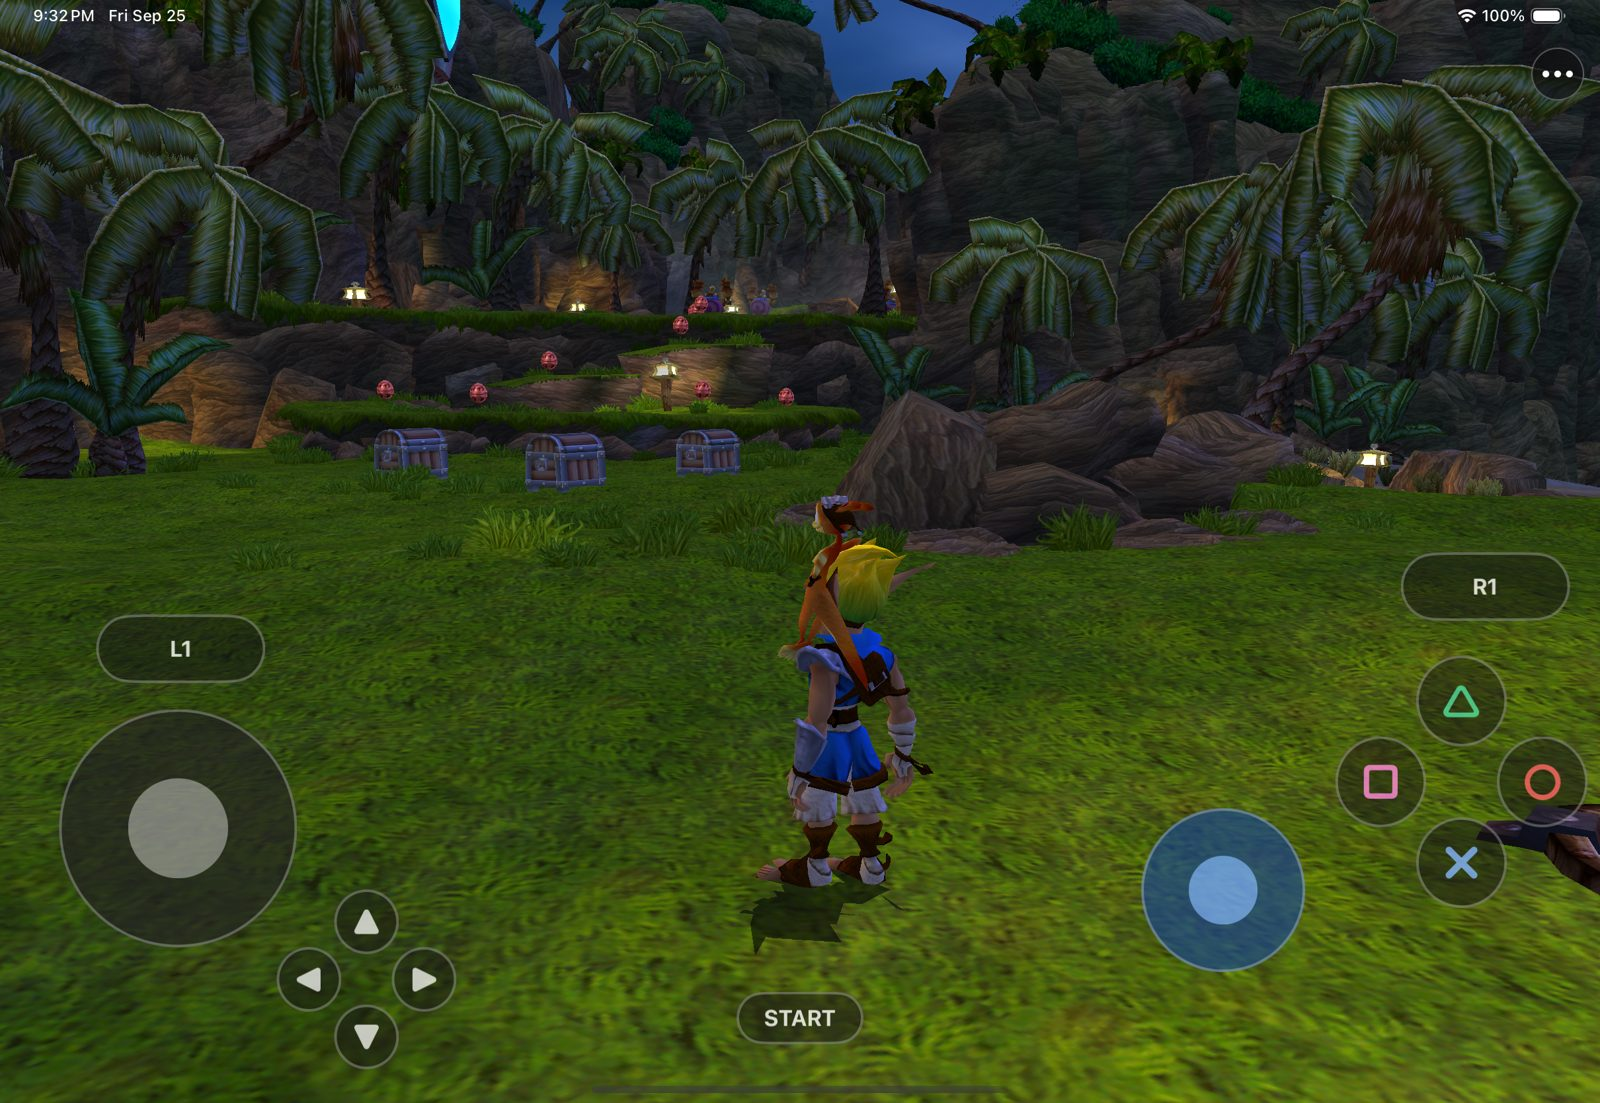
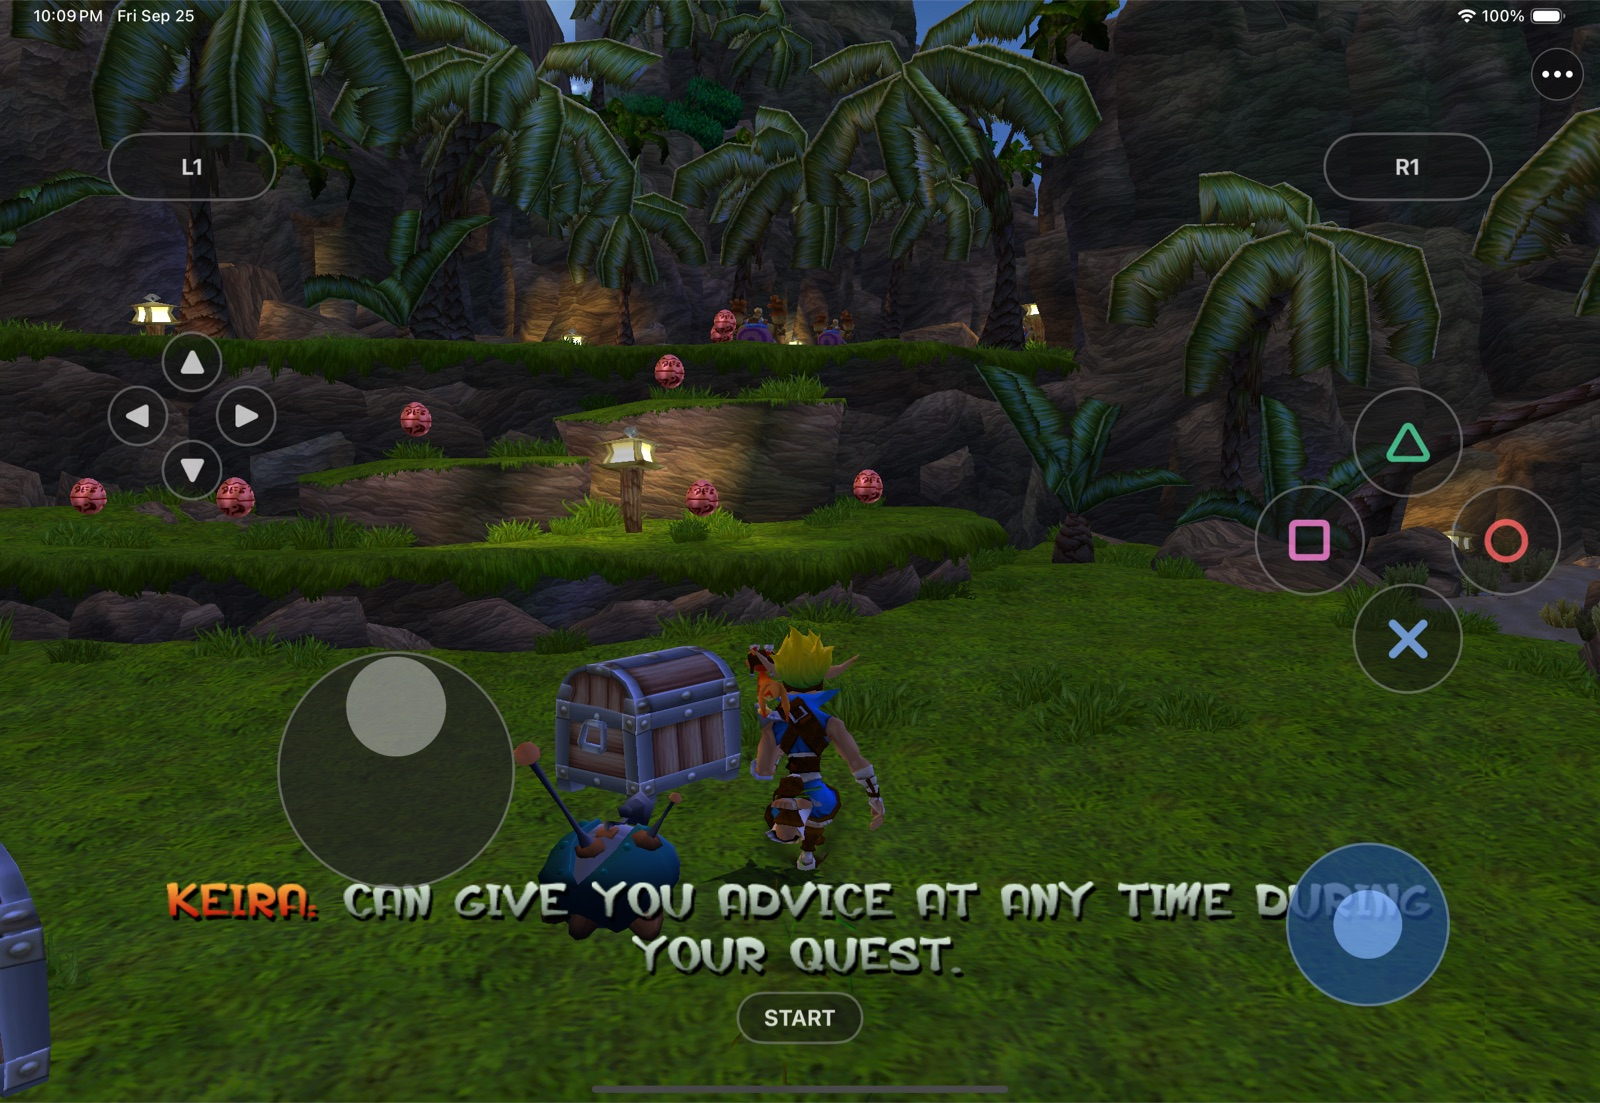
README hero: the floating move stick in use

diff --git a/README.md b/README.md
@@ -14,7 +14,7 @@
   <img alt="Game data not included" src="https://img.shields.io/badge/game%20data-not%20included-FF453A">
 </p>
 
-![Ottsel running Jak and Daxter in Geyser Rock's training course with the touch controls](docs/readme/ottsel-training-touch.jpg)
+![Jak running through Geyser Rock's training course, steered by the floating move stick under the left thumb](docs/readme/ottsel-training-touch.jpg)
 
 Ottsel packages [OpenGOAL](https://github.com/open-goal/jak-project), the open-source port of Jak and
 Daxter built from its decompiled GOAL source, as a native iPadOS and iOS app. On a PC, OpenGOAL compiles
